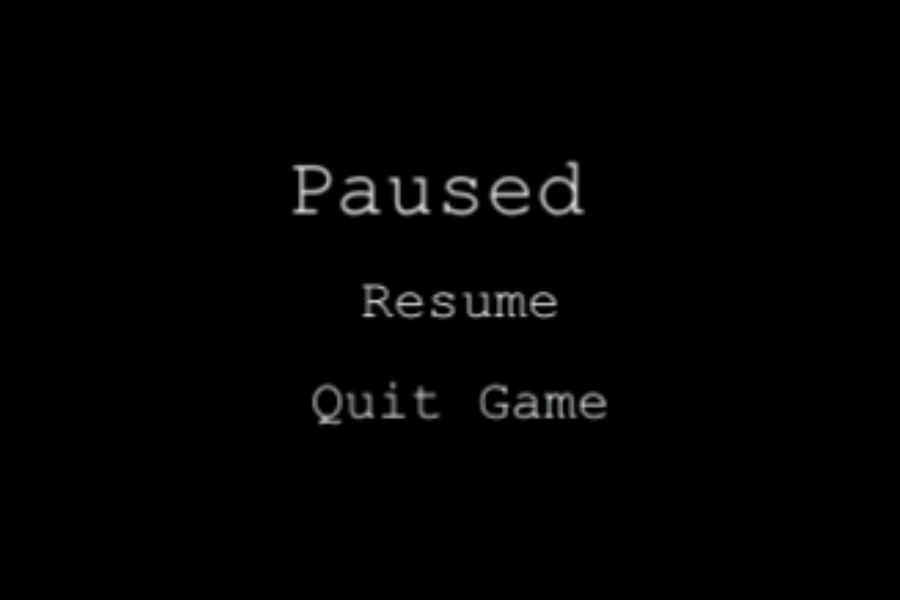
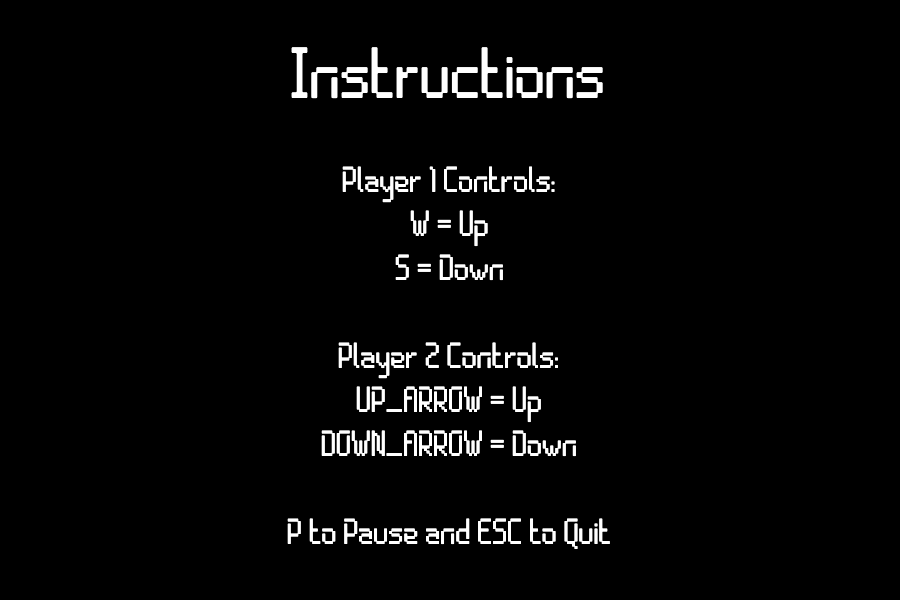
Create Different Screens for the Game

diff --git a/utilz/Screens.java b/utilz/Screens.java
@@ -6,10 +6,11 @@ import javax.swing.ImageIcon;
 
 public class Screens {
     public static final String PAUSE_IMG = "res/paused_screen.png";
+    //Implement Instructions Screen
     public static final String INSTRUCTIONS_IMG = "res/instructions_screen.png";
     public static final String START_IMG = "res/start_screen.png";
-    public static final String P1_WIN_IMG = "res/lose_screen.png";
-    public static final String P2_WIN_IMG = "res/win_screen.png";
+    public static final String P1_WIN_IMG = "res/player_one_win_screen.png";
+    public static final String P2_WIN_IMG = "res/player_two_win_screen.png";
 
     //Implement Images For Different Game States Here Below!
     public static final Image PAUSE_SCREEN = new ImageIcon(PAUSE_IMG).getImage();
